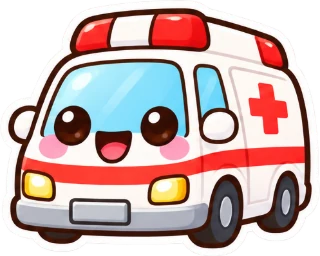
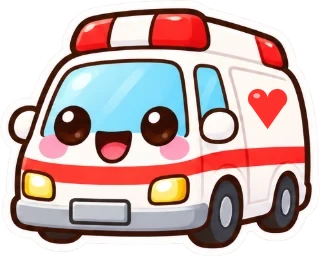
구급차 스티커: 빨간 십자 → 빨간 하트
- 흰 바탕 빨간 십자는 적십자 표장이라 승인 없이 쓸 수 없음 (대한적십자사 조직법)
- assets/items/city/5.webp 옆면 표시만 하트로 바꿈 (크기·나머지 그림 그대로)
- docs/PROMPTS.md: 다시 그릴 때도 십자 대신 하트로 안내

Claude-Session: https://claude.ai/code/session_013HjWtgyPy7wWrCdtZwW9m1

Changed region(s): [[0.75, 0.3125, 0.9062, 0.5312]]

diff --git a/docs/PROMPTS.md b/docs/PROMPTS.md
@@ -22,6 +22,7 @@
 - 스티커 시트는 **3칸 × 2줄**, 순서는 윗줄 왼쪽부터. 게임이 6개로 자동으로 잘라 씁니다. 순서가 틀려도 게임은 되지만 이름이 바뀌어요.
 - (선택) 분위기별 배경을 따로 만들고 싶으면 `assets/bg/<테마>-sunset.png`, `-night.png`, `-special.png`.
 - ⚠ 실제 만화·게임 캐릭터(포켓몬 등)를 닮게 만들지 마세요. 공개 서비스라 저작권 문제가 됩니다.
+- ⚠ 흰 바탕에 빨간 십자(적십자 표장)는 그리지 마세요. 법으로 사용이 제한돼요. 구급차·약상자는 빨간 하트로 대신합니다.
 
 ### 공통: 배경
 
@@ -173,7 +174,7 @@
 - 이미지 크기 1536×1024 가로
 
 테마: 반짝반짝 도시
-순서(윗줄 왼쪽부터 오른쪽으로): 1 자동차(red car), 2 택시(yellow taxi), 3 버스(bus) / 아랫줄: 4 소방차(fire truck), 5 경찰차(police car), 6 구급차(ambulance)
+순서(윗줄 왼쪽부터 오른쪽으로): 1 자동차(red car), 2 택시(yellow taxi), 3 버스(bus) / 아랫줄: 4 소방차(fire truck), 5 경찰차(police car), 6 구급차(ambulance, 옆면 표시는 빨간 십자 대신 빨간 하트)
 ```
 
 ### 5. 🍎 달콤 과수원 — `orchard`
